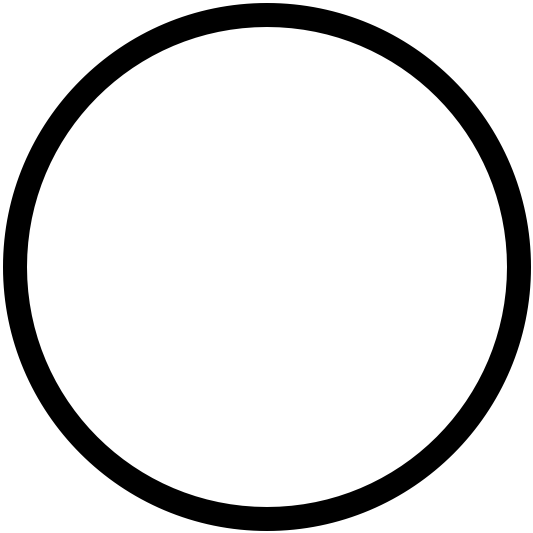
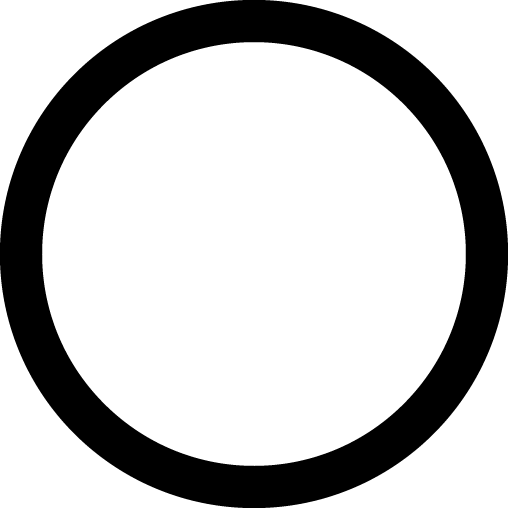
replaced playerTokens with filled PNGs

diff --git a/src/components/EndPoint.js b/src/components/EndPoint.js
@@ -6,7 +6,7 @@ import Draggable from 'react-draggable'
 
 // import emptyCircle from '../assets/PlayerTokens/emptyCircle.png'
 // import selectedCircle from '../assets/PlayerTokens/selectedCircle.png'
-import dashCircle from '../assets/PlayerTokens/dashCircle.png'
+import dashCircle2 from '../assets/PlayerTokens/dashCircle2.png'
 
 class EndPoint extends Component {
     constructor(props) {
@@ -69,7 +69,7 @@ class EndPoint extends Component {
         //TODO: bounds need to account for window resizing after the initial grid has been renderd. Might be fixed once the grid size becomes responsive to window size
         return (
             <Draggable onStart={this.onStart} onStop={this.controlledStop} position={controlledPosition} bounds={{left: 0, top: 0, right:this.props.width, bottom: this.props.height - 17}} >
-                <img src={dashCircle} style={this.style} alt="EndPoint Token"/>
+                <img src={dashCircle2} style={this.style} alt="EndPoint Token"/>
             </Draggable>
         )
     }

diff --git a/src/components/PathLine.js b/src/components/PathLine.js
@@ -4,7 +4,7 @@ export const PathLine = (props) => {
     let style = {
         stroke: "#000"
     }
-
+    //TODO: dynamically change color based on selected player
     return (
             <line stroke={style.stroke} x1={props.x1} y1={props.y1} x2={props.x2} y2={props.y2} id={"pathLine"} stroke-dasharray="6" ></line>
     )
